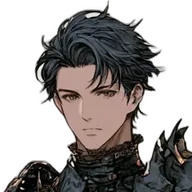
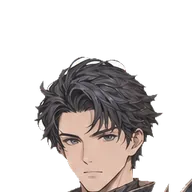
絵: 転職の立ち絵4枚（竜騎士・聖王の男女）

diff --git a/scripts/art/build_art.py b/scripts/art/build_art.py
@@ -199,7 +199,7 @@ FACES.update({
 })
 # 穴埋め（fill_holes）をしない元画像。重装衛士は、細い槍を戻すため切り抜きを直している（.cut の絵を
 # scripts/art/fix_thin_cut.py で作り直し済み）。槍と足の間の背景が穴として埋まるので、穴埋めをしない
-NO_FILL_HOLES = {'bulwark-female', 'bulwark-male', 'lancer-male', 'lancer-female', 'archer-male', 'archer-female', 'tamer-male', 'tamer-female', 'archmage-male', 'archmage-female', 'hexer-male', 'hexer-female', 'brawler-male', 'brawler-female', 'phantomThief-male', 'phantomThief-female', 'phantomTamer-male', 'phantomTamer-female', 'shadow-female'}
+NO_FILL_HOLES = {'bulwark-female', 'bulwark-male', 'lancer-male', 'lancer-female', 'archer-male', 'archer-female', 'tamer-male', 'tamer-female', 'archmage-male', 'archmage-female', 'hexer-male', 'hexer-female', 'brawler-male', 'brawler-female', 'phantomThief-male', 'phantomThief-female', 'phantomTamer-male', 'phantomTamer-female', 'shadow-female', 'dragoon-male', 'dragoon-female', 'holyKing-male', 'holyKing-female'}
 # 表に無い職は、この値（x=0.5 は頭の位置を自動で探す）
 FACE_DEFAULT = (0.5, 0.085, 0.17)
 
